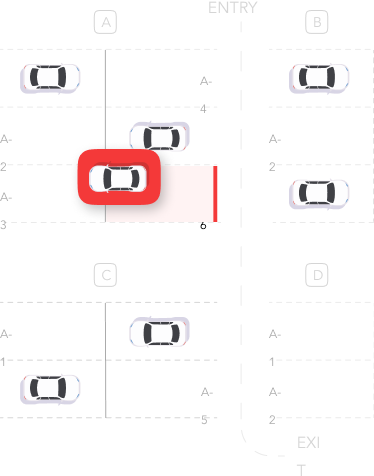
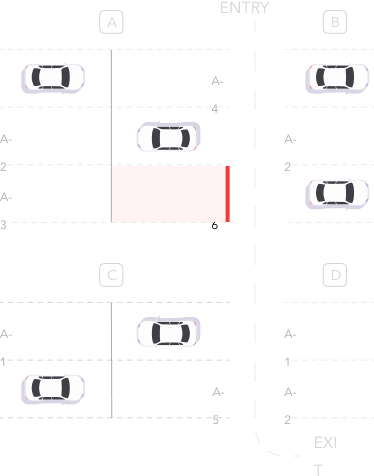
ft(choose space): add a drag and drop functionality

diff --git a/src/app/screens/Home/ChooseSpaceScreen.tsx b/src/app/screens/Home/ChooseSpaceScreen.tsx
@@ -1,4 +1,4 @@
-import React from "react";
+import React, { useRef } from "react";
 import {
   View,
   Text,
@@ -6,21 +6,36 @@ import {
   StyleSheet,
   SafeAreaView,
   Pressable,
-  ScrollView
+  ScrollView,
+  Animated,
+  PanResponder
 } from "react-native";
 import { mall, COLORS, SIZES } from "../../../constants";
 import {
+  carToDrag,
   leftArrowWithBackground,
 } from "../../../constants/Icons";
 import Buttons from "../../../components/Buttons";
 import { Link, router } from "expo-router";
-
-
+ 
 const ChooseSpaceScreen = () => {
+  const pan = useRef(new Animated.ValueXY()).current;
+   
+  const panResponder = useRef(
+    PanResponder.create({
+      onMoveShouldSetPanResponder: () => true,
+      onPanResponderMove: Animated.event([null, {dx: pan.x, dy: pan.y}],{ useNativeDriver: false}
+      ),
+      onPanResponderRelease: () => {
+        pan.extractOffset();
+      },
+    }),
+  ).current;
+    
   return (
     <SafeAreaView style={styles.container}>
         <Pressable
-        onPress={()=> router.back()}
+          onPress={()=> router.back()}
             style={{
             flexDirection: "row",
             alignItems: "center",
@@ -71,11 +86,26 @@ const ChooseSpaceScreen = () => {
         
       </ScrollView>
 
-      <View>
+      <View style={{position: "relative"}}>
         <Image
         source={require("../../../../assets/images/spaceParking.png")}
         style={{resizeMode: "cover", justifyContent: "center", width: "100%" }}
         />
+        <Animated.View
+          style={{
+            position: 'absolute',
+            left: "50%",
+            top: "50%",
+            transform: [{ translateX: pan.x }, { translateY: pan.y }],
+            backgroundColor: "red", padding: 10, borderRadius: 10
+          }}
+          {...panResponder.panHandlers}
+        >   
+            <Image
+            style={{ width: 70, height: 40}}
+              source={carToDrag}
+            />
+        </Animated.View>
       </View>
       <View style={{paddingHorizontal: 30,}}>
       <Buttons

diff --git a/src/constants/Icons.ts b/src/constants/Icons.ts
@@ -24,6 +24,10 @@ import chatIcon from "../../assets/icons/redChatIcon.png"
 import redMessageIcon from "../../assets/icons/redMessageIcon.png" 
 import fluentArrowIcon from "../../assets/icons/fluent_arrowIcon.png" 
 import infoIcon from "../../assets/icons/InfoCircle.png" 
+import carToDrag from "../../assets/icons/carToDrag.png"
+
+
+
 
 
 export {
@@ -53,4 +57,5 @@ export {
     visaIcon,
     masterCardIcon,
     infoIcon,
+    carToDrag
 }

diff --git a/src/components/ContactInput.tsx b/src/components/ContactInput.tsx
@@ -1,6 +1,4 @@
 import React from 'react';
-import { StyleSheet, Text, Image, View, TouchableHighlight, SafeAreaView, Button, Alert, Platform, StatusBar, Dimensions,TextInput} from 'react-native'
-import { COLORS } from '../../constants';
 import PhoneInput  from 'react-phone-input-2';
 import { useState } from 'react';
 
